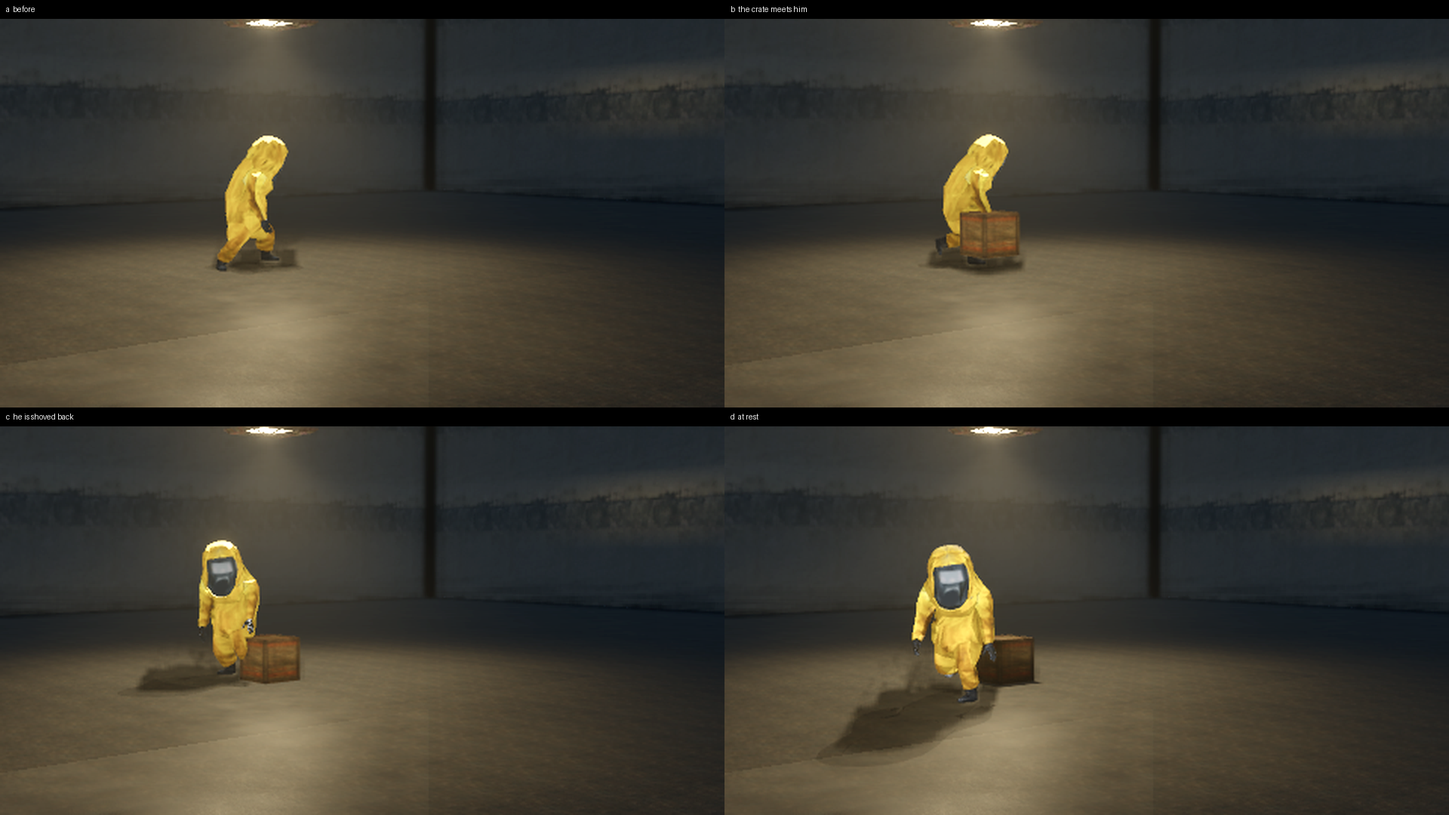
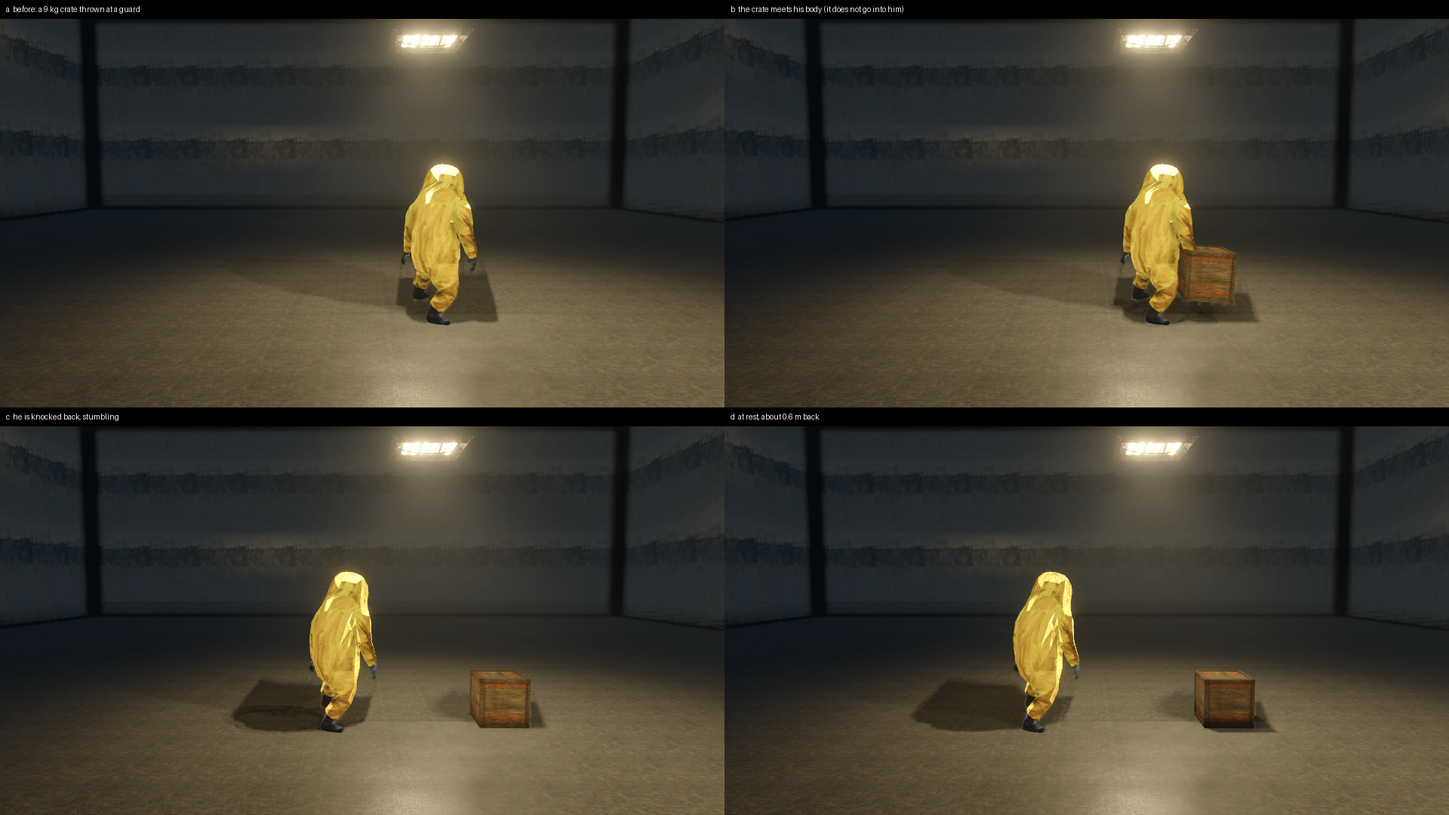
Vectra: men and creatures are bodies in the solver (props meet them by contact, never pass into them); knocked back by the prop's momentum, stumbling up to 1.5 m, creatures' blows spoilt, a man knocked out by a drum at a run; fixture and structure corners tested against props, deep points under a su

diff --git a/src/game/RigidClutter.cpp b/src/game/RigidClutter.cpp
@@ -18,9 +18,11 @@
 #include "../core/Tune.h"
 #include <chrono>
 #include <deque>
+#include <cstdio>
+#include <cstdlib>
 namespace retro {
 namespace {
-constexpr float RigidStep=1.f/120;constexpr int RigidMaxSteps=6;constexpr int PlayerBody=-2;
+constexpr float RigidStep=1.f/120;constexpr int RigidMaxSteps=6;constexpr int PlayerBody=-2,ActorBody=-100;   // ActorBody-k: the k-th man or creature this step
 // Panes, as Clutter.cpp's strike has them.
 constexpr float PaneTap=2,PaneRearm=.3f;
 float paneBreakEnergy(const Breakable& b){return b.material==17?(b.holds?450.f:150.f):b.material==22?40.f:300.f;}
@@ -43,6 +45,7 @@ int keepFour(std::vector<Hit>& h,vectra::V3 n){
 void Game::simulateRigidProps(std::vector<Clutter>& list,int level,float dt,int held){
  using namespace vectra;
  auto& rp=m_rigidProps[level];
+ if(level==m_level)updateBodyKnocks(dt);   // the men and creatures props knocked, stumbling on (once a frame)
  if(level==m_level){m_rigidStats.steps=0;m_rigidStats.ms=m_rigidStats.worldMs=m_rigidStats.pairMs=m_rigidStats.solveMs=m_rigidStats.buildMs=m_rigidStats.preMs=m_rigidStats.postMs=0;}
  const Vec2 shift=chunkOffset(level)-chunkOffset(m_level);
  // A point in this list's coordinates, in the world that holds it (p becomes that world's own coordinates).
@@ -131,7 +134,8 @@ void Game::simulateRigidProps(std::vector<Clutter>& list,int level,float dt,int 
    float s=w.supportBelow(q.x,q.y,p.z+.06f,true);s-=softSinkAt(w.level(),q,s);
    // Only its underside stands on things: a point up its side that has gone a little into a fixture's top edge
    // (a tall crate shoved against a counter) meets the fixture's side, as a wall, and does not lift it onto it.
-   const bool under=p.z<b.x.z+.01f;
+   // (A point well under what the World says supports it (6 cm) is inside that thing from its side: a wall.)
+   const bool under=p.z<b.x.z+.01f&&p.z-s>-.06f;
    if(p.z-s<margin&&!round&&under)hits.push_back({p,{0,0,1},p.z-s,0,partOf[si]});
    // Every point is asked about walls too, from just over what it stands on: a thin thing on the floor
    // (a keyboard, a bottle on its side) is all floor points, and would otherwise roll through a wall.
@@ -150,8 +154,23 @@ void Game::simulateRigidProps(std::vector<Clutter>& list,int level,float dt,int 
    {const V3 vp=b.v+cross(b.w,p-b.x);const V3 move=vp*RigidStep*1.5f;const float horiz=std::sqrt(move.x*move.x+move.y*move.y);
     if(horiz>.004f){const float tx=q.x+move.x,ty=q.y+move.y;const float fb=std::max(p.z+move.z-.005f,s+.004f);
      if(!w.fits(tx,ty,fb,.01f,true,true)||w.doorBlocks(tx,ty,fb,.01f)){const V3 from{q.x,q.y,std::max(p.z,s+.006f)},to{tx,ty,std::max(p.z,s+.006f)};V3 n;const float t=w.shotFraction(from,to,n);
-      if(t<1&&dot(n,to-from)<0)hits.push_back({p,n,std::max(0.f,dot(from-(from+(to-from)*t),n)),2});}}}
+      if(t<1&&dot(n,to-from)<0)hits.push_back({p,n,std::max(0.f,dot(from-(from+(to-from)*t),n)),2});
+      // The ray met no face (a fixture a ray passes through, a corner between its steps): the way it is going is
+      // blocked, so a contact now against that way, at no gap, stops it at the face rather than in it.
+      else{const float l=horiz;hits.push_back({p,V3{-move.x/l,-move.y/l,0},0.f,2});}}}}
   }
+  // The corners of the boxes round it (fixtures, structures) against its own shape: the world is asked only at
+  // points over the body, so a counter's corner pushed into a crate's face between two of them went unseen.
+  if(!flat){const Vec2 kk=cq-(Vec2{b.x.x,b.x.y}+shift);   // world-local = list + shift + kk
+   const float lx0=b.boundsLo.x+shift.x+kk.x-margin,lx1=b.boundsHi.x+shift.x+kk.x+margin,ly0=b.boundsLo.y+shift.y+kk.y-margin,ly1=b.boundsHi.y+shift.y+kk.y+margin,lz0=b.boundsLo.z,lz1=b.boundsHi.z;
+   auto corner=[&](float wx,float wy,float bottom,float top){if(wx<lx0||wx>lx1||wy<ly0||wy>ly1)return;const float z0=std::max(bottom,lz0),z1=std::min(top,lz1);if(z1<z0)return;
+    for(float wz:{z0+.01f,(z0+z1)*.5f,z1-.01f}){const V3 p{wx-shift.x-kk.x,wy-shift.y-kk.y,wz};
+     for(int part=0;part<b.shape->count;++part){V3 surface,normal;float d;nearestPoint(b,part,p,surface,normal,d);if(d<margin)hits.push_back({p,neg(normal),d,2,part});}}};
+   for(const auto&f:cw.fixtures()){if(!f.solid||f.core<=0)continue;const float hx=f.width*f.core*.5f,hy=f.depth*f.core*.5f,r=std::sqrt(hx*hx+hy*hy);
+    if(f.position.x+r<lx0||f.position.x-r>lx1||f.position.y+r<ly0||f.position.y-r>ly1)continue;const float bottom=cw.floorHeight(f.position.x,f.position.y)+f.base,top=bottom+f.height;if(top<lz0||bottom>lz1)continue;
+    const float c=std::cos(f.yaw),s=std::sin(f.yaw);const Vec2 ax{c,-s},ay{s,c};for(int i=0;i<4;++i){const Vec2 q=f.position+ax*(i&1?hx:-hx)+ay*(i&2?hy:-hy);corner(q.x,q.y,bottom,top);}}
+   for(const auto&st:cw.structures()){if(!st.solid||st.shape==ShapeRamp)continue;if(st.x2<lx0||st.x1>lx1||st.y2<ly0||st.y1>ly1||st.top<lz0||st.bottom>lz1)continue;
+    corner(st.x1,st.y1,st.bottom,st.top);corner(st.x2,st.y1,st.bottom,st.top);corner(st.x1,st.y2,st.bottom,st.top);corner(st.x2,st.y2,st.bottom,st.top);}}
   if(hits.empty())return;
   // Group: the floor, the ceiling, the walls by the way they face (eight ways round).
   // (The floor under each part of a compound is its own manifold: a chair on its back rests on its back and its
@@ -174,7 +193,9 @@ void Game::simulateRigidProps(std::vector<Clutter>& list,int level,float dt,int 
    for(const auto&h:group){auto&c=m.points[size_t(m.count++)];c=ContactPoint{};c.p=h.p;c.separation=h.sep-worldSlop;c.localA=b.q.unrotate(h.p-b.x);c.localB=h.p;}
    out.push_back(m);}
  };
- space.filter=[&](const Space& sp,int a,int b){const Body& A=sp.bodies[size_t(a)];const Body& B=sp.bodies[size_t(b)];
+ space.filter=[&](const Space& sp,int a,int b){const Body& A=sp.bodies[size_t(a)];const Body& B=sp.bodies[size_t(b)];if(A.user<0&&B.user<0)return false;
+  // (The prop in the hand meets men by the carry's own sweep, pushBodiesFromCarried: it neither hurts nor knocks them.)
+  if(A.user<=ActorBody||B.user<=ActorBody)return !(A.kinematic||B.kinematic);
   if(A.user==PlayerBody||B.user==PlayerBody){const Body& prop=A.user==PlayerBody?B:A;const Body& player=A.user==PlayerBody?A:B;(void)player;
    // Light props only: one of 8 kg and up stops him (Movement) and is shoved by the old rule's slow push.
    return prop.kinematic||prop.invMass<1/8.f?false:len(prop.v)<2.5f;}return true;};
@@ -225,17 +246,39 @@ void Game::simulateRigidProps(std::vector<Clutter>& list,int level,float dt,int 
    float left=std::max(0.f,penetration+.001f-moved);auto next=c.pos-n*left;if(left>0&&closing>.001f&&sweepFits(c.pos,next))c.pos=next;
    if(closing>.001f){float keep=(mass-.15f*actorMass)/(mass+actorMass);if(moved<penetration*.5f)keep=-.15f;c.velocity=c.velocity-n*(closing*(1-keep));c.sleeping=false;c.restTime=0;}};
   contact(m_player.pos-shift,m_player.z,m_player.hullHeight(),.2f,70.f,m_velocity,[&](Vec2 delta){auto before=m_player.pos;tryMove(delta);return m_player.pos-before;},[&](float damage,Vec2){receiveDamage(damage,c.pos+shift,false,false);},[&](float dv,Vec2){m_verticalSpringVelocity-=std::min(1.f,dv*.4f);});
-  for(size_t a=0;a<m_friendlyActors.size();++a){auto&npc=m_friendlyActors[a];const auto&track=npc.track();auto offset=chunkOffset(npc.level)-chunkOffset(level);auto point=npc.pose.position+offset;if(!nearby(point,npc.pose.z,track.scale,.2f))continue;if(npc.pose.clip==4||npcHeld(a)||!autonomousActor(track)||(track.ai.enableState&&!state(track.ai.enableState)))continue;float height=friendlyHullHeight(a,track);
+  // (Men and creatures are bodies in the solver (actor bodies, below): a prop meets them by contact.)
+  if(false)for(size_t a=0;a<m_friendlyActors.size();++a){auto&npc=m_friendlyActors[a];const auto&track=npc.track();auto offset=chunkOffset(npc.level)-chunkOffset(level);auto point=npc.pose.position+offset;if(!nearby(point,npc.pose.z,track.scale,.2f))continue;if(npc.pose.clip==4||npcHeld(a)||!autonomousActor(track)||(track.ai.enableState&&!state(track.ai.enableState)))continue;float height=friendlyHullHeight(a,track);
    contact(point,npc.pose.z,height,.2f,70.f,Vec2{},[&](Vec2 delta){auto before=npc.pose.position;const int steps=std::max(1,int(std::ceil(length(delta)/.04f)));Vec2 reached=before;for(int i=1;i<=steps;++i){const auto next=before+delta*(float(i)/steps);if(!friendlyBodyFits(npc.level,next,npc.pose.z,height))break;reached=next;}npc.pose.position=reached;return npc.pose.position-before;},[&](float damage,Vec2){auto p=c.pos+shift;damageFriendly(a,damage,p+chunkOffset(m_level)-chunkOffset(npc.level),attacker);},[](float,Vec2){});}
-  for(int target=0;target<chunkCount();++target)if(chunkResident(target)){auto offset=chunkOffset(target)-chunkOffset(level);auto&enemies=target==m_level?m_enemies:m_chunks[target].enemies;for(auto&enemy:enemies)if(enemy.alive){
+  if(false)for(int target=0;target<chunkCount();++target)if(chunkResident(target)){auto offset=chunkOffset(target)-chunkOffset(level);auto&enemies=target==m_level?m_enemies:m_chunks[target].enemies;for(auto&enemy:enemies)if(enemy.alive){
    contact(enemy.pos+offset,enemy.bodyBottom(),enemy.bodyTop()-enemy.bodyBottom(),enemy.radius(),70.f*enemy.scale*enemy.scale*enemy.scale,Vec2{},[&](Vec2 delta){auto before=enemy.pos;const int steps=std::max(1,int(std::ceil(length(delta)/.04f)));Vec2 reached=before;for(int i=1;i<=steps;++i){const auto next=before+delta*(float(i)/steps);if(!hullFits(next+chunkOffset(target)-chunkOffset(m_level),enemy.z,enemy.hull(),enemy.radius(),false,false))break;reached=next;}enemy.pos=reached;return enemy.pos-before;},
     [&](float damage,Vec2){enemy.awareness=6;enemy.recognition=1;enemy.lastKnown=c.pos-offset;enemy.lastKnownZ=c.z;enemy.state=Enemy::State::Investigate;if(applyEnemyDamage(enemy,damage,false,false,target)){auto audible=enemy;audible.pos+=chunkOffset(target)-chunkOffset(m_level);enemySound(audible,2);}},
     // Staggered by a hard shove (half a metre a second taken from the prop): its blow is spoilt and it recovers.
     [&](float dv,Vec2){if(dv<.5f)return;enemy.windup=0;enemy.strike=0;enemy.attackCooldown=std::max(enemy.attackCooldown,.35f+dv*.5f);enemy.painFlash=std::max(enemy.painFlash,std::min(1.f,dv*.6f));});}}
  };
- m_rigidStats.events.clear();m_rigidStats.manifoldsSeen.clear();m_rigidStats.worldMs=m_rigidStats.pairMs=m_rigidStats.solveMs=m_rigidStats.buildMs=m_rigidStats.preMs=m_rigidStats.postMs=0;
+ if(level==m_level){m_rigidStats.events.clear();m_rigidStats.manifoldsSeen.clear();}m_rigidStats.worldMs=m_rigidStats.pairMs=m_rigidStats.solveMs=m_rigidStats.buildMs=m_rigidStats.preMs=m_rigidStats.postMs=0;
  using Clock=std::chrono::steady_clock;auto since=[](Clock::time_point t){return std::chrono::duration<double,std::milli>(Clock::now()-t).count();};
  std::vector<int> bodyOf(list.size(),-1);std::vector<char> wasAsleep;std::vector<V3> before;
+ // ---- Men and creatures: bodies in the solver, so a prop meets them by contact (it never passes into them)
+ // and the impulse it gives them knocks them back by its momentum ----
+ struct ActorRef {bool enemy=false;int level=0;size_t index=0;float mass=70,radius=.2f,feet=0,height=1.7f;Vec2 at{},velocity{};std::uint64_t key=0;Vec2 shove{},pushed{};float hurtSpeed=0;int hurtProp=-1;int body=-1;V3 start{};};
+ std::vector<ActorRef> actors;std::deque<Shape> actorShapes;
+ {std::vector<std::pair<std::uint64_t,Vec2>> seen;
+  auto add=[&](ActorRef a){a.key=(a.enemy?1ull<<62:0ull)|(std::uint64_t(std::uint32_t(a.level))<<32)|std::uint64_t(a.index);Vec2 last=a.at;
+   for(const auto&[k,p]:rp.actorLast)if(k==a.key){last=p;break;}a.velocity=dt>1e-4f?(a.at-last)*(1/dt):Vec2{};if(length(a.velocity)>6)a.velocity=normalized(a.velocity)*6.f;seen.push_back({a.key,a.at});actors.push_back(a);};
+  for(size_t a=0;a<m_friendlyActors.size();++a){const auto&npc=m_friendlyActors[a];if(!chunkResident(npc.level))continue;const auto&track=npc.track();
+   if(npc.pose.clip==4||npcHeld(a)||!autonomousActor(track)||(track.ai.enableState&&!state(track.ai.enableState))||(track.deadState&&state(track.deadState)))continue;
+   ActorRef r;r.level=npc.level;r.index=a;r.at=npc.pose.position+chunkOffset(npc.level)-chunkOffset(level);r.feet=npc.pose.z;r.height=friendlyHullHeight(a,track);add(r);}
+  for(int target=0;target<chunkCount();++target)if(chunkResident(target)){const auto&enemies=target==m_level?m_enemies:m_chunks[target].enemies;
+   for(size_t e=0;e<enemies.size();++e){const auto&en=enemies[e];if(!en.alive)continue;ActorRef r;r.enemy=true;r.level=target;r.index=e;r.at=en.pos+chunkOffset(target)-chunkOffset(level);
+    r.feet=en.bodyBottom();r.height=en.bodyTop()-en.bodyBottom();r.radius=en.radius();r.mass=70.f*en.scale*en.scale*en.scale;add(r);}}
+  rp.actorLast.swap(seen);}
+ // A creature's or a man's: hurt, staggered, knocked back.
+ auto actorHurt=[&](const ActorRef& r,const Clutter& c,float damage){const Vec2 p=c.pos+shift;
+  if(r.enemy){auto&enemy=(r.level==m_level?m_enemies:m_chunks[r.level].enemies)[r.index];const Vec2 offset=chunkOffset(r.level)-chunkOffset(level);
+   enemy.awareness=6;enemy.recognition=1;enemy.lastKnown=c.pos-offset;enemy.lastKnownZ=c.z;enemy.state=Enemy::State::Investigate;
+   if(applyEnemyDamage(enemy,damage,false,false,r.level)){auto audible=enemy;audible.pos+=chunkOffset(r.level)-chunkOffset(m_level);enemySound(audible,2);}}
+  else{AiTargetRef attacker;if(c.soundOwner>=0&&size_t(c.soundOwner)<m_friendlyActors.size())attacker={ShotKind::Npc,m_friendlyActors[size_t(c.soundOwner)].level,c.soundOwner};else if(c.projectile)attacker={ShotKind::Player,m_level,0};
+   damageFriendly(r.index,damage,p+chunkOffset(m_level)-chunkOffset(m_friendlyActors[r.index].level),attacker);}};
  // The prop in the hand spins as the hand turned it since last frame (a carried crate swung round carries
  // what stands on it by friction, and flings it off when jerked).
  V3 heldSpin{};
@@ -307,6 +350,12 @@ void Game::simulateRigidProps(std::vector<Clutter>& list,int level,float dt,int 
    // moment and what is in it goes along; one pinned against a wall gives under him instead of into the wall.
    p.softHertz=tune("props.player_hertz",5.f);p.sleepTime=1e9f;p.id=(1<<19)-1;   // never what keeps an island awake (his own speed still does)
    space.bodies.push_back(p);}
+  // Each man and creature within reach of what moves: a box of his hull from just over his feet, his own
+  // speed, his weight, no gravity and no turning; contacts on it are hard (a crate does not go into him).
+  for(size_t k=0;k<actors.size();++k){const auto&r=actors[k];bool near=false;for(const auto&rc:reaches)near|=r.at.x+r.radius>=rc.x0&&r.at.x-r.radius<=rc.x1&&r.at.y+r.radius>=rc.y0&&r.at.y-r.radius<=rc.y1;if(!near)continue;
+   const float lift=.04f,h=std::max(.3f,r.height-lift);actorShapes.emplace_back();Shape& hull=actorShapes.back();hull.add(PartKind::Box,{},{r.radius,r.radius,h*.5f});hull.finish();
+   Body a;a.shape=&hull;a.x={r.at.x,r.at.y,r.feet+lift+h*.5f};a.v={r.velocity.x,r.velocity.y,0};a.gravity={};a.user=ActorBody-int(k);a.invMass=1/r.mass;a.invInertiaLocal=M3::zero();a.inertiaLocal=M3::zero();a.invInertia=M3::zero();
+   a.material={.6f,.5f,0,0};a.linearDamping=0;a.angularDamping=0;a.sleepTime=1e9f;a.id=(1<<19)-2-int(k);actors[k].body=int(space.bodies.size());actors[k].start=a.x;space.bodies.push_back(a);}
   chainBody.resize(space.bodies.size(),0);for(const auto&ch:chains)for(int k=0;k<3;++k)chainBody[size_t(ch.body[size_t(k)])]=1;
   for(auto&h:hinges)space.constraints.push_back(&h);
   m_rigidStats.buildMs+=since(mark);mark=Clock::now();
@@ -366,6 +415,16 @@ void Game::simulateRigidProps(std::vector<Clutter>& list,int level,float dt,int 
   for(size_t bi=0;bi<space.bodies.size();++bi){const auto&b=space.bodies[bi];if(b.kinematic||b.user<0||chainBody[bi])continue;auto&c=list[size_t(b.user)];
    if(wasAsleep[bi]&&b.sleeping)continue;fromBody(b,c);c.island=b.sleeping?space.islandOf.empty()?-1:std::max(0,space.islandOf[bi]):-1;
    if(len(b.v)<.5f)c.projectile=false;}
+  // A prop leaning on him or pushed slowly into him moves him as far as it moved his body in the solver.
+  for(auto&r:actors){if(r.body<0||size_t(r.body)>=space.bodies.size())continue;const V3 d=space.bodies[size_t(r.body)].x-r.start;r.pushed+=Vec2{d.x,d.y}-r.velocity*RigidStep;r.body=-1;}
+  for(const auto&ev:space.events){if(ev.b<0)continue;const int ua=space.bodies[size_t(ev.a)].user,ub=space.bodies[size_t(ev.b)].user;const bool aActor=ua<=ActorBody,bActor=ub<=ActorBody;
+   if(aActor==bActor||(aActor?ub:ua)<0)continue;const int propBody=aActor?ev.b:ev.a,prop=aActor?ub:ua;auto&r=actors[size_t(ActorBody-(aActor?ua:ub))];const V3 into=aActor?neg(ev.normal):ev.normal;   // from the prop into him
+   // Knocked by what came at him (the prop's own way toward him before the blow), not by his walking into a prop.
+   // The speed his body takes from the blow: the prop's momentum at its closing speed shared over both masses
+   // (a fifth of it given back), the most of the frame's blows.
+   const float coming=dot(before[size_t(propBody)],into);if(coming>.5f){const Vec2 dir{into.x,into.y};const float l=length(dir);const float m=list[size_t(prop)].mass();
+    const float dv=1.2f*m*ev.approach/(m+r.mass);if(l>.3f&&dv>length(r.shove))r.shove=dir*(1/l)*dv;}
+   if(ev.approach>r.hurtSpeed&&coming>.5f){r.hurtSpeed=ev.approach;r.hurtProp=prop;}}
   for(const auto&ev:space.events){m_rigidStats.events.push_back(ev);if(space.bodies[size_t(ev.a)].user<0||(ev.b>=0&&space.bodies[size_t(ev.b)].user<0))continue;
    const int a=space.bodies[size_t(ev.a)].user,bUser=ev.b>=0?space.bodies[size_t(ev.b)].user:-1;
    auto&ca=list[size_t(a)];
@@ -401,10 +460,38 @@ void Game::simulateRigidProps(std::vector<Clutter>& list,int level,float dt,int 
   for(size_t bi=0;bi<space.bodies.size();++bi){const auto&b=space.bodies[bi];if(b.kinematic||b.sleeping||b.user<0||(chainBody[bi]&&bodyOf[size_t(b.user)]!=int(bi)))continue;bodyContacts(b.user);}
   for(int i=0;i<int(list.size());++i)if(list[size_t(i)].broken){auto&c=list[size_t(i)];c.velocity={};c.vz=c.spin=c.pitchSpeed=c.rollSpeed=0;c.sleeping=true;c.restTime=0;}
  }
+ // The blows on men and creatures: hurt by the energy past a tap (as a body was always hurt by a prop), knocked
+ // back by the speed the prop's momentum gave him: a mug nudges a man a centimetre; a thrown crate sends him
+ // stumbling a metre back, its blow spoilt; a drum rolled into him at a run knocks a man down.
+ for(auto&r:actors){
+  if(r.hurtProp>=0&&r.hurtSpeed>=1.5f){auto&c=list[size_t(r.hurtProp)];if(c.bodyImpactCooldown<=0){const float damage=std::clamp((.5f*c.mass()*r.hurtSpeed*r.hurtSpeed-2.f)*.2f,0.f,80.f);
+    if(damage>0){actorHurt(r,c,damage);c.bodyImpactCooldown=.25f;c.projectile=false;}}}
+  if(lengthSq(r.pushed)>1e-8f&&length(r.shove)<.15f){BodyKnock k;k.level=r.level;k.enemy=r.enemy;k.index=r.index;k.velocity=r.pushed*(1/std::max(dt,1e-3f));k.time=dt;m_bodyKnocks.push_back(k);}   // moved this frame (updateBodyKnocks sweeps it)
+  const float dv=length(r.shove);if(dv<.02f)continue;const Vec2 dir=r.shove*(1/dv);
+  BodyKnock k;k.level=r.level;k.enemy=r.enemy;k.index=r.index;
+  if(dv<.15f){k.velocity=dir*(dv*.22f/.1f);k.time=.1f;}   // a nudge: his own footing takes it within a step
+  else{const float reach=std::min(1.5f,1.6f*dv);k.velocity=dir*std::sqrt(2*4.f*reach);k.time=1;}
+  bool merged=false;for(auto&o:m_bodyKnocks)if(o.enemy==k.enemy&&o.level==k.level&&o.index==k.index){if(lengthSq(k.velocity)>lengthSq(o.velocity))o.velocity=k.velocity;o.time=std::max(o.time,k.time);merged=true;}   /* a prop still rolling into him keeps him going, no further */if(!merged)m_bodyKnocks.push_back(k);
+  if(r.enemy){auto&enemy=(r.level==m_level?m_enemies:m_chunks[r.level].enemies)[r.index];if(dv>=.5f){enemy.windup=0;enemy.strike=0;enemy.attackCooldown=std::max(enemy.attackCooldown,.35f+dv*(dv>=1.3f?1.5f:.6f));enemy.painFlash=std::max(enemy.painFlash,std::min(1.f,dv*.6f));}}
+  else if(dv>=1.3f&&!npcHeld(r.index)){auto&npc=m_friendlyActors[r.index];setState(friendlyKey(r.index,"restraint"),1);npc.pose.clip=4;npc.pose.phase=1;saveRestrainedPose(r.index);}   // knocked down: out cold where he falls
+}
  rp.cache.swap(space.cache);
  int awake=0;for(const auto&b:space.bodies)awake+=b.movable()&&b.user>=0;
  m_rigidStats.bodies=int(space.bodies.size());m_rigidStats.awake=awake;m_rigidStats.manifolds=int(space.manifolds.size());m_rigidStats.worldManifolds=space.worldManifolds;m_rigidStats.steps=steps;
- m_rigidStats.manifoldsSeen=std::move(space.manifolds);
+ if(level==m_level)m_rigidStats.manifoldsSeen=std::move(space.manifolds);
  m_rigidStats.ms=std::chrono::duration<double,std::milli>(std::chrono::steady_clock::now()-started).count();
+}
+void Game::updateBodyKnocks(float dt){
+ for(auto& k:m_bodyKnocks){if(k.time<=0)continue;const float speed=length(k.velocity);if(speed<.05f){k.time=0;continue;}
+  const Vec2 delta=k.velocity*dt;const int steps=std::max(1,int(std::ceil(length(delta)/.04f)));
+  if(k.enemy){if(!chunkResident(k.level)){k.time=0;continue;}auto&enemies=k.level==m_level?m_enemies:m_chunks[k.level].enemies;if(k.index>=enemies.size()||!enemies[k.index].alive){k.time=0;continue;}auto&enemy=enemies[k.index];
+   const Vec2 before=enemy.pos;Vec2 reached=before;for(int i=1;i<=steps;++i){const auto next=before+delta*(float(i)/float(steps));if(!hullFits(next+chunkOffset(k.level)-chunkOffset(m_level),enemy.z,enemy.hull(),enemy.radius(),false,false))break;reached=next;}
+   if(length(reached-before)<length(delta)*.5f)k.velocity=Vec2{};enemy.pos=reached;enemy.windup=0;}
+  else{if(k.index>=m_friendlyActors.size()){k.time=0;continue;}auto&npc=m_friendlyActors[k.index];const float height=friendlyHullHeight(k.index,npc.track());
+   const Vec2 before=npc.pose.position;Vec2 reached=before;for(int i=1;i<=steps;++i){const auto next=before+delta*(float(i)/float(steps));if(!friendlyBodyFits(npc.level,next,npc.pose.z,height))break;reached=next;}
+   if(length(reached-before)<length(delta)*.5f)k.velocity=Vec2{};npc.pose.position=reached;}
+  // He stumbles to a stop (4 m/s^2: his feet find the floor again).
+  const float slowed=std::max(0.f,speed-4.f*dt);k.velocity=speed>0?k.velocity*(slowed/speed):Vec2{};k.time-=dt;}
+ std::erase_if(m_bodyKnocks,[](const BodyKnock& k){return k.time<=0||lengthSq(k.velocity)<.0025f;});
 }
 }

diff --git a/src/lab/tubes/VectraShove.cpp b/src/lab/tubes/VectraShove.cpp
@@ -37,7 +37,9 @@ Hit throwAt(bool legacy,bool creature,const Thing& t){
  auto where=[&]{return creature?LabAccess::enemies(g)[0].pos:LabAccess::friendlies(g)[0].pose.position;};
  for(int i=0;i<10;++i)g.update({},1.f/60);const Vec2 start=where();const float hp=creature?LabAccess::enemies(g)[0].hp:0;
  auto c=t.c;c.pos={at.x-(t.vz==0?1.f:1.6f),at.y};c.velocity=t.v;c.vz=t.vz;c.projectile=true;c.sleeping=false;LabAccess::clutter(g)={c};
- float shove=0;for(int i=0;i<90;++i){g.update({},1.f/60);shove=std::max(shove,where().x-start.x);if(creature){auto& e=LabAccess::enemies(g)[0];e.awareness=0;}}
+ float shove=0;for(int i=0;i<90;++i){g.update({},1.f/60);shove=std::max(shove,where().x-start.x);if(creature){auto& e=LabAccess::enemies(g)[0];e.awareness=0;}
+  if(std::getenv("RM_SHOVE_TRACE")&&!legacy){static std::ofstream tr("vectra-shove-trace.txt");for(const auto& e:LabAccess::rigidStats(g).events)if(e.b>=0)tr<<t.name<<(creature?" creature":" guard")<<" frame "<<i<<" event "<<e.a<<"-"<<e.b<<" n "<<f2(e.normal.x)<<","<<f2(e.normal.y)<<","<<f2(e.normal.z)<<" approach "<<f2(e.approach)<<" impulse "<<f2(e.impulse)<<std::endl;
+   for(const auto& k:LabAccess::bodyKnocks(g))tr<<t.name<<" frame "<<i<<" knock v "<<f2(k.velocity.x)<<","<<f2(k.velocity.y)<<" t "<<f2(k.time)<<" at "<<f2(where().x,3)<<std::endl;}}
  Hit h;h.shove=shove;h.hurt=creature?hp-LabAccess::enemies(g)[0].hp:float(g.state(stateId("reg_guard_damage")));vectra::forceLegacyProps(-1);return h;}
 
 const bool shove=add({.name="vectra-shove",.summary="props against people and things by weight: thrown and rolled into a guard and a creature, dropped on glass and on a mug, held up as a shield; legacy and Vectra",.standalone=[]{
@@ -117,13 +119,13 @@ const bool feel=add({.name="vectra-feel",.summary="pictures: a crate shoving a g
  .fixtures={"feel-shove","feel-throw","feel-mattress"},
  .author=[](Scene& s,AuthoredMapData& m){const std::string k=s.fixture->value("feel","shove");m.definition.playerStart={2,2};
   if(k=="shove")m.actorTracks.push_back(regression::guard({11,8},{11,8},AiFaction::Player));
-  if(k=="throw"){m.actorTracks.push_back(regression::guard({10.2f,9},{10.2f,9},AiFaction::Player));m.actorTracks.push_back(regression::guard({11.8f,9},{11.8f,9},AiFaction::Player));}
+  if(k=="throw"){m.actorTracks.push_back(regression::guard({11,7.6f},{11,7.6f},AiFaction::Player));m.actorTracks.push_back(regression::guard({11,9.6f},{11,9.6f},AiFaction::Player));}
   if(k=="mattress")m.structures.push_back({10,4,16,12,0,.4f,false,40});},
- .setup=[](Scene& s){LabAccess::player(s.g()).pos={2,2};LabAccess::setGod(s.g(),true);},
+ .setup=[](Scene& s){LabAccess::setGod(s.g(),true);for(auto& npc:LabAccess::friendlies(s.g()))npc.frozen=true;},   // they stand where put; a knock still moves them
  .step=[](Scene& s,float){const std::string k=s.fixture->value("feel","shove");auto& l=LabAccess::clutter(s.g());
   if(s.frame==20){
    if(k=="shove"){auto c=prop(model::wooden_crate,{9.2f,8},.5f,.8f);c.velocity={5.5f,0};c.vz=.6f;c.projectile=true;l={c};}
-   if(k=="throw"){auto a=prop(model::mug,{10.2f,7.4f},.9f);a.velocity={0,9};a.vz=.6f;a.projectile=true;auto b=prop(model::wooden_crate,{11.8f,7.2f},.5f,.8f);b.velocity={0,5.5f};b.vz=.6f;b.projectile=true;l={a,b};}
+   if(k=="throw"){auto a=prop(model::mug,{9.6f,9.6f},1.f);a.velocity={9,0};a.vz=.6f;a.projectile=true;auto b=prop(model::wooden_crate,{9.4f,7.6f},.5f,.8f);b.velocity={5.5f,0};b.vz=.6f;b.projectile=true;l={a,b};}
    if(k=="mattress"){auto c=prop(model::med_mattress_stained,{10.25f,8},.6f);l={c};}}},
  .capture=[](Scene& s,const Frame&){if(s.frame==19)s.shoot("a-before");if(s.frame==34)s.shoot("b-contact");if(s.frame==60)s.shoot("c-after");if(s.last())s.shoot("d-end");},
  .metrics=[](Scene& s,Report& r){r.check("ran",true);}});

diff --git a/src/game/Clutter.cpp b/src/game/Clutter.cpp
@@ -442,7 +442,9 @@ void Game::simulateClutter(std::vector<Clutter>&list,int level,float dt,int held
      const Vec2 side=n.x!=0?Vec2{0,delta.y<0?-1.f:1.f}:Vec2{delta.x<0?-1.f:1.f,0};const Vec2 way=stuck?side:n;const float reach=stuck?(n.x!=0?ny:nx):std::min(nx,ny);
      const float pace=std::min(std::min(6.f,length(m_velocity)+1.f),(reach+.001f)/std::max(dt,1e-3f));c.velocity+=way*std::max(0.f,pace-dot(c.velocity,way));
      c.soundOwner=-1;c.sleeping=false;c.restTime=0;goto rigidPush;}
-    if(fit(next))shove(c,next);else{Vec2 side=n.x!=0?Vec2{0,delta.y<0?-1.f:1.f}:Vec2{delta.x<0?-1.f:1.f,0};next=c.pos+side*((n.x!=0?ny:nx)+.001f);if(fit(next)){shove(c,next);n=side;}}c.soundOwner=-1;float speed=dot(m_velocity,n)*std::min(1.f,4/c.mass())+.2f;c.velocity+=n*std::max(0.f,speed-dot(c.velocity,n));c.sleeping=false;c.restTime=0;}}
+    bool gave=true;if(fit(next))shove(c,next);else{Vec2 side=n.x!=0?Vec2{0,delta.y<0?-1.f:1.f}:Vec2{delta.x<0?-1.f:1.f,0};next=c.pos+side*((n.x!=0?ny:nx)+.001f);if(fit(next)){shove(c,next);n=side;}else gave=false;}
+    // (Vectra: a prop with nowhere to go is not driven on into what stops it; legacy's step kept it out by its own test.)
+    c.soundOwner=-1;if(gave||!rigidCore){float speed=dot(m_velocity,n)*std::min(1.f,4/c.mass())+.2f;c.velocity+=n*std::max(0.f,speed-dot(c.velocity,n));}c.sleeping=false;c.restTime=0;}}
    rigidPush:;
   }else if(length(m_velocity)>.5f&&length(c.pos-(m_player.pos-shift))<.24f+c.footprint()*.5f&&c.z<m_player.z+1&&c.z+c.height()>m_player.z){c.velocity=m_velocity*.7f;c.pitchSpeed=5;c.rollSpeed=2;c.sleeping=false;c.restTime=0;}
   if(c.model>=0){auto probe=c.pos+shift;const auto&under=physicalWorld(probe);if(probe.x<0||probe.x>=24||probe.y<0||probe.y>=24||!chunkResident(under.level())){c.sleeping=true;c.restTime=-1;continue;}if(c.restTime<0){c.sleeping=false;c.restTime=0;}}

diff --git a/src/game/Game.h b/src/game/Game.h
@@ -1337,11 +1337,17 @@ private:
     void simulateClutter(std::vector<Clutter>& list,int level,float dt,int held);
     // Vectra's step for a list's model props (RigidClutter.cpp; the old one: vectra::legacyProps()).
     void simulateRigidProps(std::vector<Clutter>& list,int level,float dt,int held);
+    // A man or a creature knocked back by a prop (RigidClutter.cpp): he stumbles along `velocity`, slowing,
+    // through his own hull sweeps; a creature's blow is spoilt while it lasts.
+    struct BodyKnock {int level=0;bool enemy=false;size_t index=0;Vec2 velocity{};float time=0;};
+    std::vector<BodyKnock> m_bodyKnocks;
+    void updateBodyKnocks(float dt);
     // A list's rigid-body state between frames: the fixed step's leftover time and the contacts' warm start.
     struct RigidPropState {float accumulator=0;std::vector<std::pair<std::uint64_t,vectra::Space::Cached>> cache;
      // A region of the world found to be one flat floor with every column round it open (RigidClutter.cpp),
      // kept per prop: asked again only when the prop leaves it or a door moves.
      int heldIndex=-1;vectra::Quat heldTurn{}; // the prop in the hand and how it was turned last step (its spin)
+     std::vector<std::pair<std::uint64_t,Vec2>> actorLast;   // where each man and creature near props was last frame (their bodies' speed)
      struct Flat {const void* world=nullptr;float x0=0,y0=0,x1=0,y1=0,lo=0,hi=0,floor=0,doors=0;bool flat=false,valid=false;};std::vector<Flat> flat;};
     std::map<int,RigidPropState> m_rigidProps;
     // What the last rigid step did (the lab's perf and debug views).

diff --git a/src/lab/tubes/PropWalls.cpp b/src/lab/tubes/PropWalls.cpp
@@ -63,7 +63,7 @@ const bool tube=add({
   // RM_PROPWALLS_TRACE=<prop index>: prop-walls-trace.txt, its pose, what of it is in a solid and the world contacts near it, each frame.
   if(const char* e=std::getenv("RM_PROPWALLS_TRACE");e&&std::atoi(e)==int(t.index)){static std::ofstream tr("prop-walls-trace.txt");std::string why;const bool in=inSolid(w,c,&why);
    tr<<"frame "<<r.frame<<" pos "<<fixed(c.pos.x,3)<<","<<fixed(c.pos.y,3)<<","<<fixed(c.z,3)<<" ypr "<<fixed(c.yaw,3)<<","<<fixed(c.pitch,3)<<","<<fixed(c.roll,3)<<" v "<<fixed(c.velocity.x,2)<<","<<fixed(c.velocity.y,2)<<(c.sleeping?" asleep":"")<<" blocked "<<fixed(c.blockedTime,2)<<(in?" IN "+why:"")<<'\n';
-   for(const auto& m:LabAccess::rigidStats(g).manifoldsSeen){if(m.count==0)continue;const auto& q=m.points[0].p;if(std::fabs(q.x-c.pos.x)>.6f||std::fabs(q.y-c.pos.y)>.6f)continue;
+   for(const auto& m:LabAccess::rigidStats(g).manifoldsSeen){if(m.count==0)continue;const auto& q=m.points[0].p;if(m.b>=0||std::fabs(q.x-c.pos.x)>1.f||std::fabs(q.y-c.pos.y)>1.f)continue;
     tr<<"   M a"<<m.a<<" b"<<m.b<<" g"<<m.partB<<" n "<<fixed(m.normal.x,2)<<","<<fixed(m.normal.y,2)<<","<<fixed(m.normal.z,2);for(int k=0;k<m.count;++k)tr<<" ("<<fixed(m.points[size_t(k)].p.x,2)<<","<<fixed(m.points[size_t(k)].p.y,2)<<","<<fixed(m.points[size_t(k)].p.z,3)<<" s"<<fixed(m.points[size_t(k)].separation*1000,1)<<")";tr<<'\n';}}
   t.moved=std::max(t.moved,length(c.pos-t.start));
   // Through a wall: the prop's middle, frame to frame, never passes through a solid (sampled every 2 cm).

diff --git a/src/game/physics/Vectra.h b/src/game/physics/Vectra.h
@@ -169,6 +169,9 @@ int supportFeature(const Body& body,int part,V3 d,std::array<V3,8>& out);
 // Sample points on the part's surface (world), every `spacing` metres along its edges and across its faces,
 // for asking a world of columns where it is solid.
 void surfaceSamples(const Body& body,int part,float spacing,std::vector<V3>& out);
+// The part's nearest surface point to `point` (world), its outward normal there, and the signed distance
+// (negative inside): for the corners of the world's boxes against a body.
+bool nearestPoint(const Body& body,int part,V3 point,V3& surface,V3& normal,float& distance);
 
 // ---- Phase 2 hook: joints -------------------------------------------------------------------------
 struct Space;

diff --git a/src/game/physics/Vectra.cpp b/src/game/physics/Vectra.cpp
@@ -168,6 +168,7 @@ bool nearestOnPart(const Body& b,int part,V3 point,V3& surface,V3& normal,float&
  else{const float r=p.half.x;n=norm(l,{0,0,1});q=n*r;inside=lenSq(l)<r*r;}
  surface=centre+turn.rotate(q);normal=turn.rotate(n);distance=inside?-len(q-l):len(l-q);return inside;}
 }
+bool nearestPoint(const Body& b,int part,V3 point,V3& surface,V3& normal,float& distance){return nearestOnPart(b,part,point,surface,normal,distance);}
 void partBounds(const Body& b,int part,V3& lo,V3& hi){
  const auto&p=b.shape->parts[size_t(part)];V3 centre;Quat turn;partFrame(b,part,centre,turn);
  if(p.kind==PartKind::Sphere){const V3 r{p.half.x,p.half.x,p.half.x};lo=centre-r;hi=centre+r;return;}

diff --git a/src/lab/LabAccess.h b/src/lab/LabAccess.h
@@ -97,6 +97,7 @@ struct LabAccess {
  // Things that break, and what they leave (tubes/Debris.cpp).
  static std::vector<Clutter>& clutter(Game& g){return g.m_clutter;}
  static const Game::RigidStats& rigidStats(const Game& g){return g.m_rigidStats;}
+ static std::vector<Game::BodyKnock>& bodyKnocks(Game& g){return g.m_bodyKnocks;}
  static void knock(Game& g,size_t index,Point3 at,Point3 impulse){g.knockClutter(g.m_level,index,at,impulse);}
  static Vec2& carryHandVelocity(Game& g){return g.m_carryHandVelocity;}
  static int entityProperty(Game& g,int level,std::string_view entity,std::string_view key){return g.entityPropertyInt(level,entity,key);}

diff --git a/docs/Systems/physics.md b/docs/Systems/physics.md
@@ -70,6 +70,10 @@ Chair backs sit on the side `tools/dev/model_fronts.json` puts behind the seat.
   - A point inside a wall, fixture or door gets its face from a ray out of the body's middle.
   - A point that will be inside one by the end of the step gets a speculative contact at the face its own
     motion meets.
+  - The corners of the fixtures and structures round a body are tested against its own shape too, so a
+    counter's corner cannot go into a crate's face between two of its points. A point more than 6 cm under
+    what the World says supports it is inside that thing from its side, and meets it as a wall. A point whose
+    way ahead is blocked where no ray finds a face still gets a contact against its way.
   - Only a part's underside stands on what is under it. A point up its side that has gone into a fixture's top
     edge meets the fixture's face, as a wall (a tall crate shoved against a counter is not lifted onto it).
   - The contacts are grouped by facing into manifolds of four. The floor under each part of a compound is its
@@ -184,11 +188,17 @@ second. The ward beds' padding (SoftBodies, a fixture) keeps its own soft grid.
   prop's middle, which is what the break speeds were tuned on.
 - **Bodies.** The old body contacts still run: people and creatures struck, carried along, stood on.
   Heavy-impact tipping is real torque now.
-  - **Shoved by momentum.** A prop that comes at a man, a guard or a creature gives him the speed its momentum
-    shares between them (its mass over both, times its closing speed), carried through a quarter second: a mug
-    barely nudges him, a thrown 9 kg crate shoves him back 15 cm, a rolling 35 kg drum a pace. Past half a metre
-    a second a creature staggers: its blow is spoilt and it waits before the next. It moves through the same
-    hull sweeps the creatures and men already walk by, so nothing is pushed into a wall.
+  - **Bodies in the solver.** Each man and creature within reach of a moving prop is a body in the solver: a
+    box of his hull from just over his feet, his weight, his own speed, no gravity, no turning, hard contacts. A
+    prop meets him by contact and never passes into him; one leaning on him or pushed slowly into him moves him
+    as far as it moved that body. (The prop in the hand is left to the carry's own sweep.)
+  - **Knocked back by momentum.** A prop that comes at him gives him the speed its momentum shares between them
+    (1.2 times its mass times its closing speed, over both masses). Under 0.15 m/s it is a nudge (a mug: a
+    centimetre). Over it he stumbles back 1.6 m per m/s of it, at most 1.5 m, slowing at 4 m/s^2, through the hull
+    sweeps he walks by, so nothing is pushed into a wall: a thrown 9 kg crate knocks a guard about 0.6 m back
+    and a creature 1 m. Past 0.5 m/s a creature's blow is spoilt and it waits before the next; past 1.3 m/s (a
+    35 kg drum at a run) a man is knocked down, out cold where he falls (the restraint knockout), and a creature
+    waits longer. (Game::m_bodyKnocks, updateBodyKnocks.)
   - **Hurt by the blow's energy.** Damage is a fifth of the energy past 2 J (half m v squared at the closing
     speed, from 1.5 m/s): a thrown mug stings (2 to 3), a thrown crate hurts badly (about 20).
   - **Breaking by the blow.** A prop breaks past its material's break speed, or when the blow it takes (the
